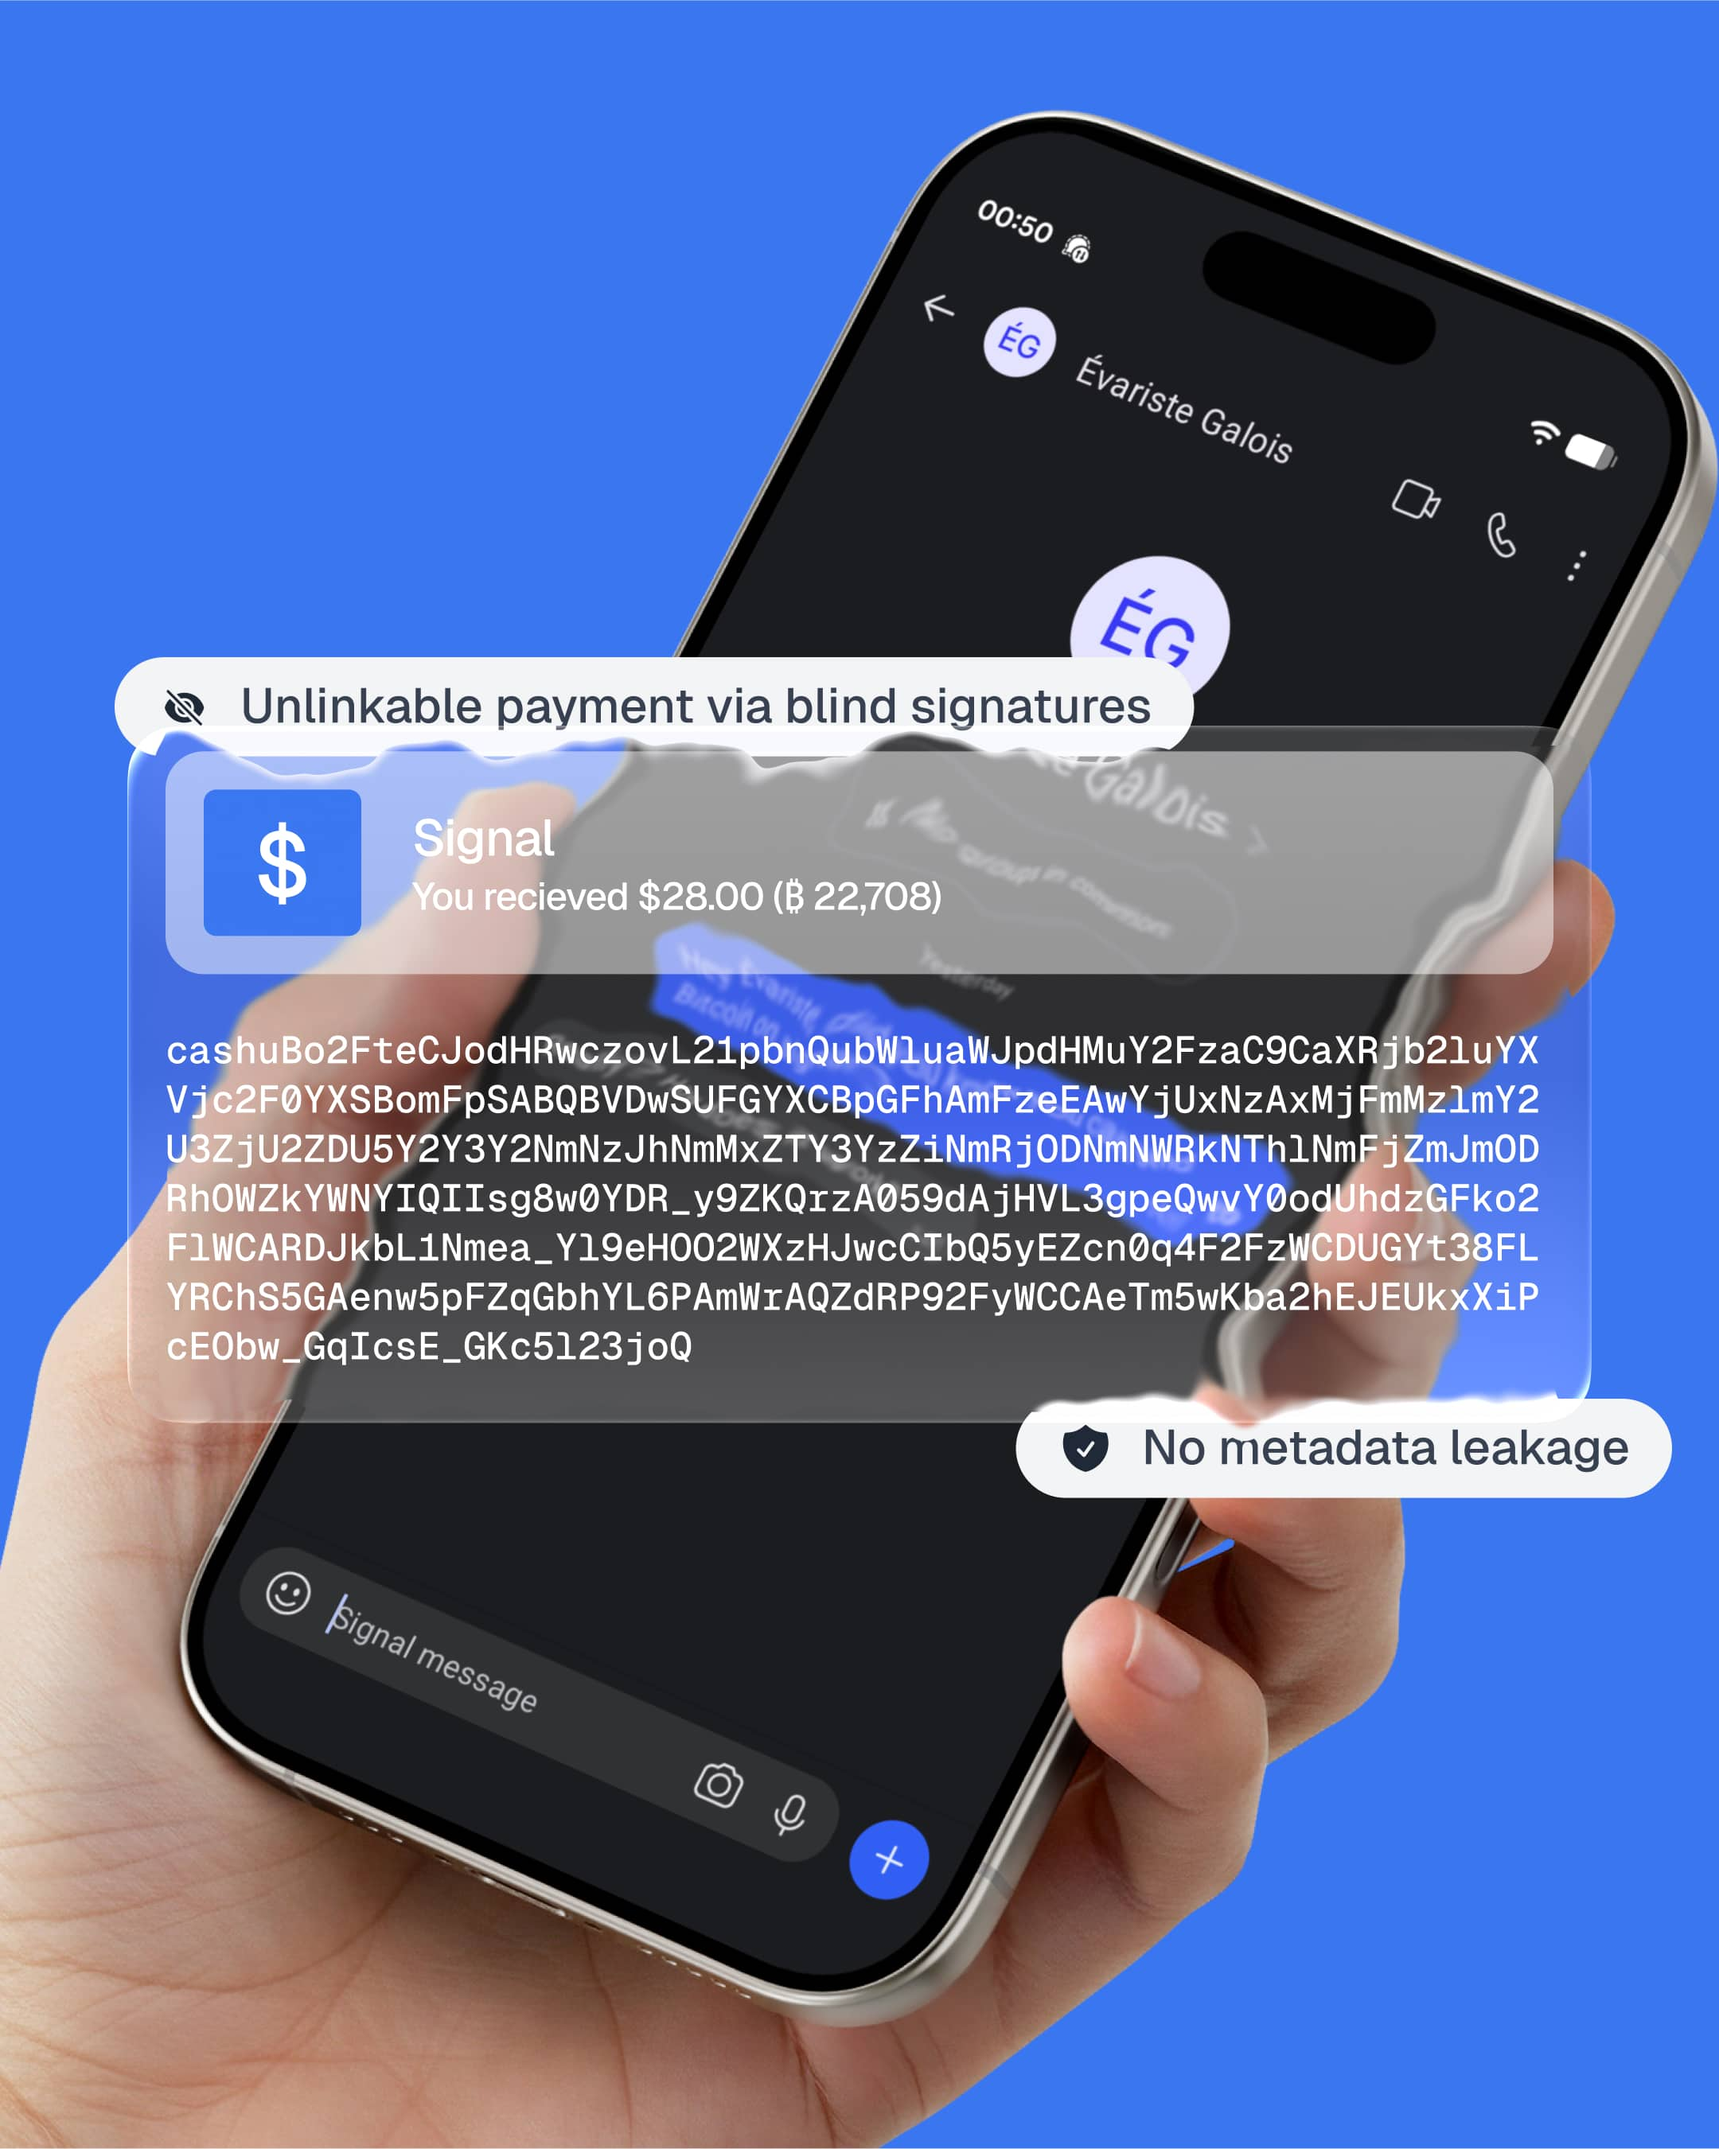
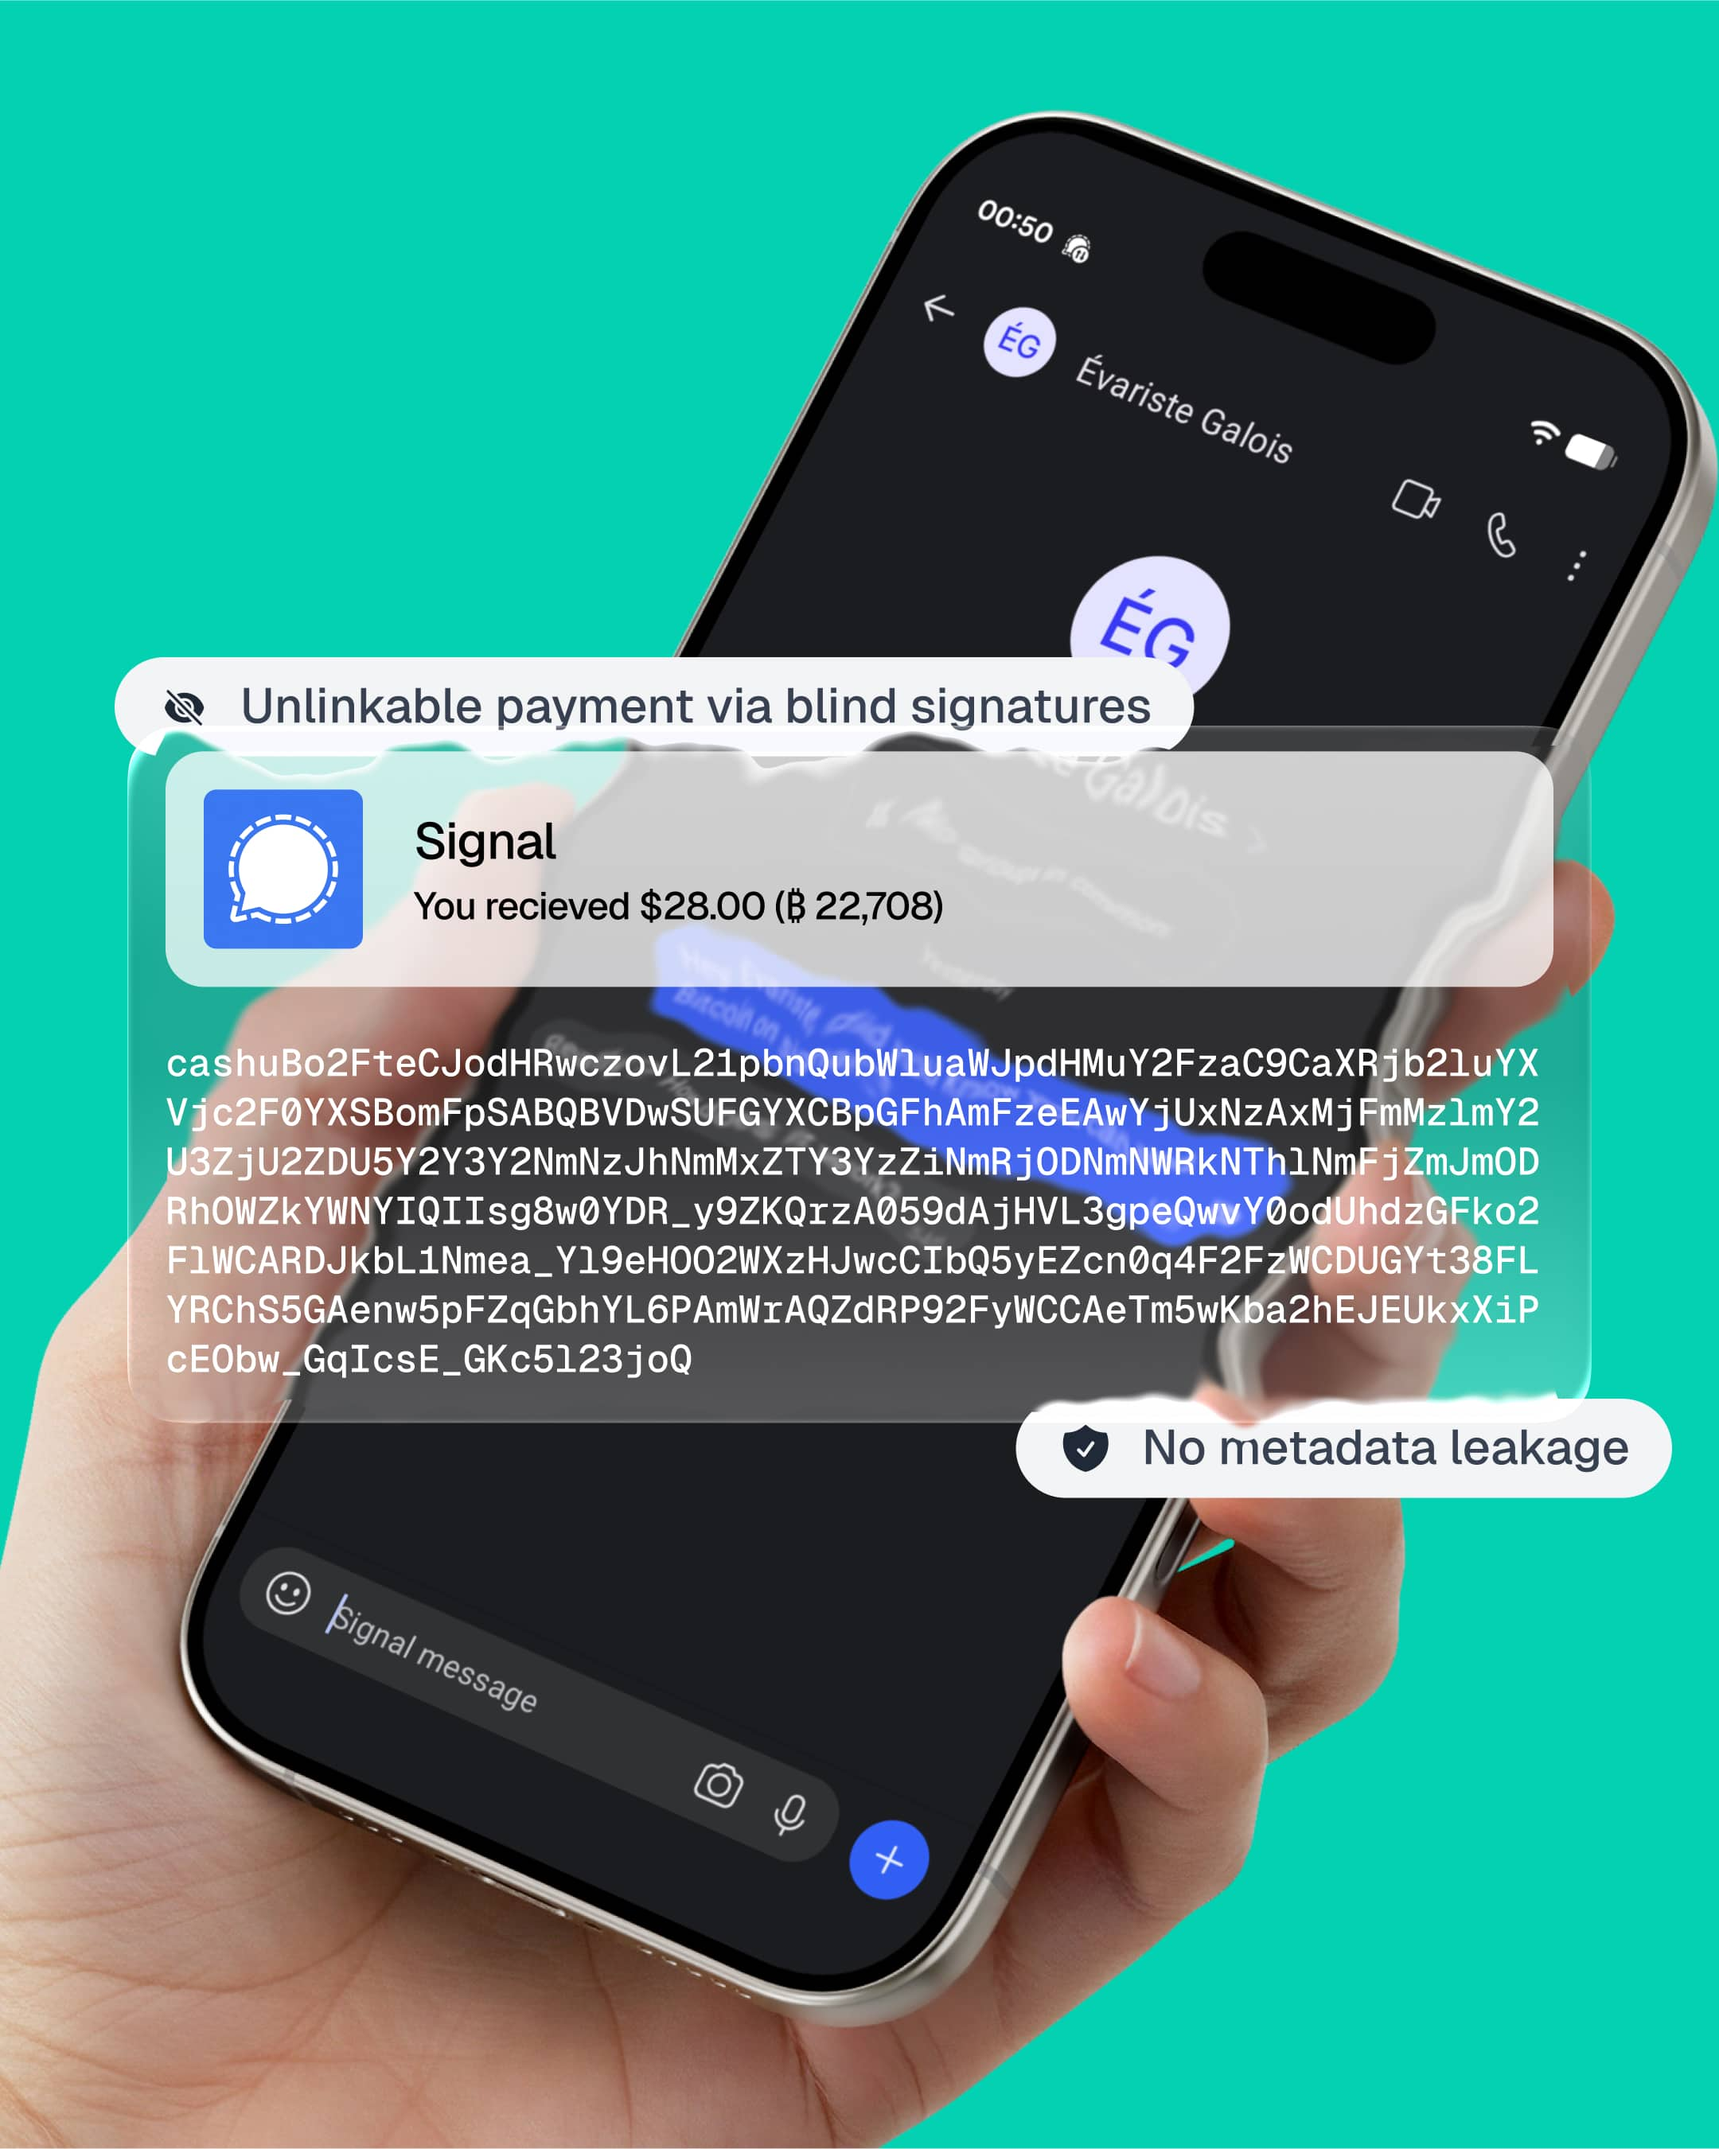
updated photos.

diff --git a/pages/index.js b/pages/index.js
@@ -157,7 +157,7 @@ export default function Home() {
             </div>
 
             <div className="basis-6/12 pt-6 md:p-6 flex justify-center">
-              <img src="/signal-hidden.jpg" alt="Signal needs private bitcoin" className="xl:w-8/12" />
+              <img src="/signal-problem.jpg" alt="Signal needs private bitcoin" className="xl:w-8/12" />
             </div>
           </section>
 
